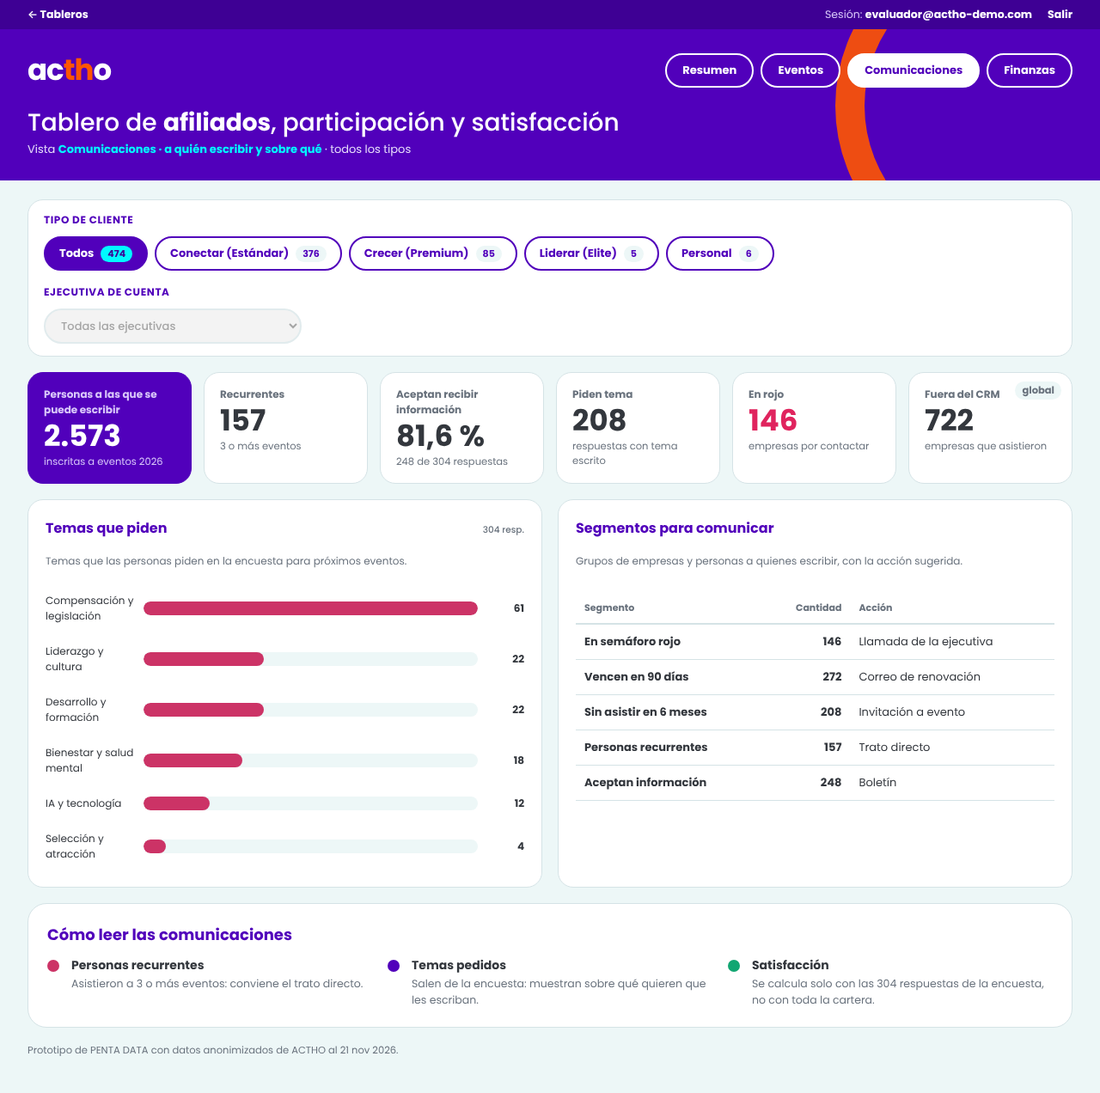
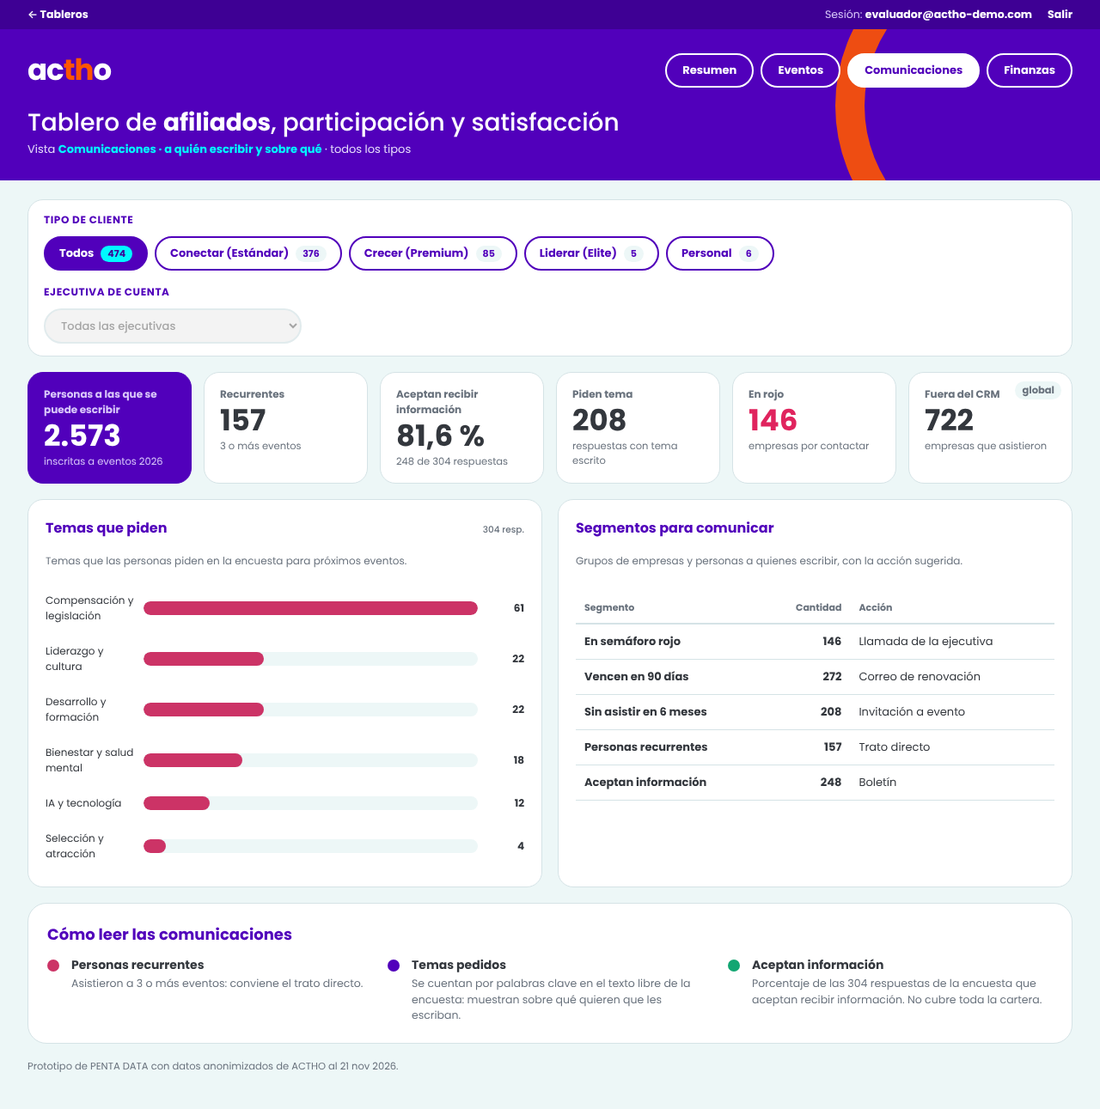
Correccion: aceptan informacion en vez de satisfaccion en comunicaciones y selector

diff --git a/tablero/tablero.html b/tablero/tablero.html
@@ -102,7 +102,7 @@ function pie(){const e=document.getElementById('pie');if(!e)return;const P=(c,t,
 const n=X.enc&&X.enc.Todos?X.enc.Todos.n:0;
 const G={dir:['C\u00f3mo leer el sem\u00e1foro',[P('#E0245E','Rojo','Vence en 90 d\u00edas o menos (o ya venci\u00f3) y sin asistencia en 6 meses: contactar primero.'),P('#FFB020','Amarillo','Una sola de las dos se\u00f1ales: dar seguimiento.'),P('#12A672','Verde','Ninguna se\u00f1al de riesgo: mantener la relaci\u00f3n.')]],
 ev:['C\u00f3mo leer los eventos',[P('#5100BB','Inscripciones','Cada inscripci\u00f3n es una persona en un evento. La misma persona puede aparecer en varios.'),P('#FF5500','L\u00ednea y modalidad','Las l\u00edneas de oferta y las modalidades (virtual, presencial, h\u00edbrido) suman las mismas inscripciones.'),P('#CC3366','Asistencia real','Las inscripciones no confirman asistencia: son intenci\u00f3n de asistir.')]],
-com:['C\u00f3mo leer las comunicaciones',[P('#CC3366','Personas recurrentes','Asistieron a 3 o m\u00e1s eventos: conviene el trato directo.'),P('#5100BB','Temas pedidos','Salen de la encuesta: muestran sobre qu\u00e9 quieren que les escriban.'),P('#12A672','Satisfacci\u00f3n','Se calcula solo con las '+n+' respuestas de la encuesta, no con toda la cartera.')]],
+com:['C\u00f3mo leer las comunicaciones',[P('#CC3366','Personas recurrentes','Asistieron a 3 o m\u00e1s eventos: conviene el trato directo.'),P('#5100BB','Temas pedidos','Se cuentan por palabras clave en el texto libre de la encuesta: muestran sobre qu\u00e9 quieren que les escriban.'),P('#12A672','Aceptan informaci\u00f3n','Porcentaje de las '+n+' respuestas de la encuesta que aceptan recibir informaci\u00f3n. No cubre toda la cartera.')]],
 fin:['C\u00f3mo usar las finanzas',[P('#5100BB','Calculadora','Escribe la tarifa anual de cada tipo de cliente: se multiplica por las empresas en rojo para estimar el ingreso en juego.'),P('#E0245E','Gr\u00e1fico de vencimientos','Rojo: ya vencidas. Naranja: vencen antes de fin de a\u00f1o. Violeta: 2027.'),P('#12A672','Altas y renovaciones','Solo cubren los \u00faltimos 2 meses de los informes de Zoho.')]]};
 const g=G[vista]||G.dir;e.innerHTML='<b>'+g[0]+'</b><div class="ps">'+g[1].join('')+'</div>'}
 function render(){

diff --git a/tablero/tableros.html b/tablero/tableros.html
@@ -92,7 +92,7 @@ let N='';
 const nv=[];
 if(X.ev)nv.push(kp(sum(X.ev.map(e=>e.t.Todos)),'Inscripciones','en '+X.ev.length+' eventos'));
 if(can('comunicaciones')&&X.pe)nv.push(kp(X.pe.Todos.per,'Personas \u00fanicas','han asistido'));
-if(can('comunicaciones')&&X.enc)nv.push(kp(Math.round(X.enc.Todos.si/X.enc.Todos.n*100),'Satisfechos','de '+X.enc.Todos.n+' respuestas','%'));
+if(can('comunicaciones')&&X.enc)nv.push(kp(Math.round(X.enc.Todos.si/X.enc.Todos.n*100),'Aceptan informaci\u00f3n','de '+X.enc.Todos.n+' respuestas','%'));
 if(can('resumen'))nv.push(kp(D.n,'Afiliados vigentes','en la cartera'));
 if(nv.length)N+=`<div class="bn"><h3>ACTHO EN CIFRAS</h3><div class="nn">${nv.join('')}</div></div>`;
 const at=(c,t,sb,h,d)=>`<a class="ac" href="${h}" style="animation-delay:${d}s"><i style="background:${c}">\u2192</i><span><b>${t}</b><span>${sb}</span></span></a>`;
